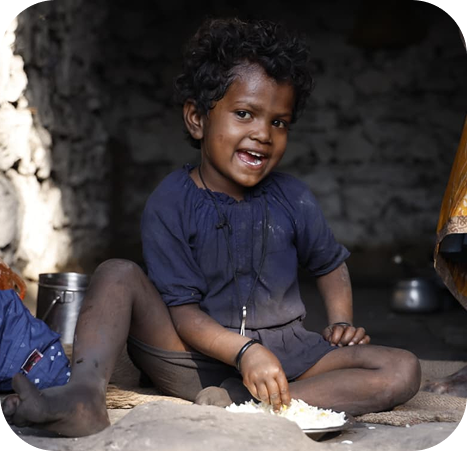
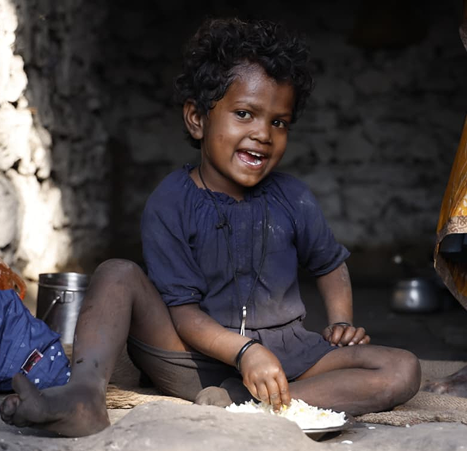
mission section fix

diff --git a/src/components/home/mission-section.tsx b/src/components/home/mission-section.tsx
@@ -11,18 +11,20 @@ export function MissionSection() {
       aria-labelledby="mission-heading"
     >
       <div className="mx-auto w-full max-w-screen-2xl px-4 py-6 md:px-12">
-        <div className="flex flex-col gap-0 lg:flex-row lg:items-center lg:justify-between lg:gap-x-12">
+        <div className="flex flex-col gap-2 lg:flex-row lg:items-center lg:justify-between lg:gap-x-12">
           <div className="order-2 flex min-w-0 flex-col gap-5 lg:order-1 lg:max-w-[891px] lg:flex-1 lg:gap-[60px]">
             <div className="flex flex-col gap-1">
               <h2
                 id="mission-heading"
-                className="text-xl font-light leading-snug tracking-tight text-zinc-900 lg:text-[2.625rem] lg:leading-[1.2] xl:text-[2.75rem]"
+                className="text-base leading-snug tracking-tight lg:text-[2.625rem] lg:leading-[1.2] xl:text-[2.75rem]"
               >
-                <span className="text-zinc-900">One mission.</span>{" "}
-                <span className="text-cta-from">Many lives changed:</span>
+                <span className="font-extralight text-zinc-900">One mission.</span>{" "}
+                <span className="font-light text-cta-from">
+                  Many lives changed:
+                </span>
               </h2>
               <p
-                className={`text-sm font-normal leading-normal text-zinc-400 lg:text-3xl lg:leading-snug`}
+                className={`text-sm font-light leading-normal text-zinc-400 lg:text-3xl lg:leading-snug`}
               >
                 ending hunger, empowering children, and building livelihoods.
               </p>
@@ -31,16 +33,16 @@ export function MissionSection() {
             <div>
               <Link
                 href={MISSION_CTA_HREF}
-                className="inline-flex h-12 w-60 items-center justify-between gap-2 rounded bg-cta-gradient px-4 text-sm font-medium text-white transition hover:opacity-95 lg:h-16 lg:w-75 lg:px-6 lg:text-lg"
+                className="group inline-flex h-12 w-60 items-center justify-between gap-2 rounded bg-cta-gradient px-4 text-sm font-medium text-white transition hover:opacity-95 lg:h-16 lg:w-75 lg:px-6 lg:text-lg"
               >
                 <span className="min-w-0 shrink text-left leading-6 lg:leading-9">
                   Join us on our Mission
                 </span>
                 <span
-                  className="flex size-[30px] shrink-0 items-center justify-center"
+                  className="flex size-7.5 shrink-0 items-center justify-center transition-transform duration-200 ease-out group-hover:-rotate-30"
                   aria-hidden
                 >
-                  <CircleChevronRight className="size-[1.5625rem] text-white" strokeWidth={2} />
+                  <CircleChevronRight className="size-6.25 text-white" strokeWidth={2} />
                 </span>
               </Link>
             </div>
@@ -59,7 +61,7 @@ export function MissionSection() {
                 priority={false}
               />
               <div
-                className="pointer-events-none absolute inset-0 rounded-[25px] bg-black/20 lg:hidden"
+                className="pointer-events-none absolute inset-0 rounded-[25px] lg:hidden"
                 aria-hidden
               />
             </div>
